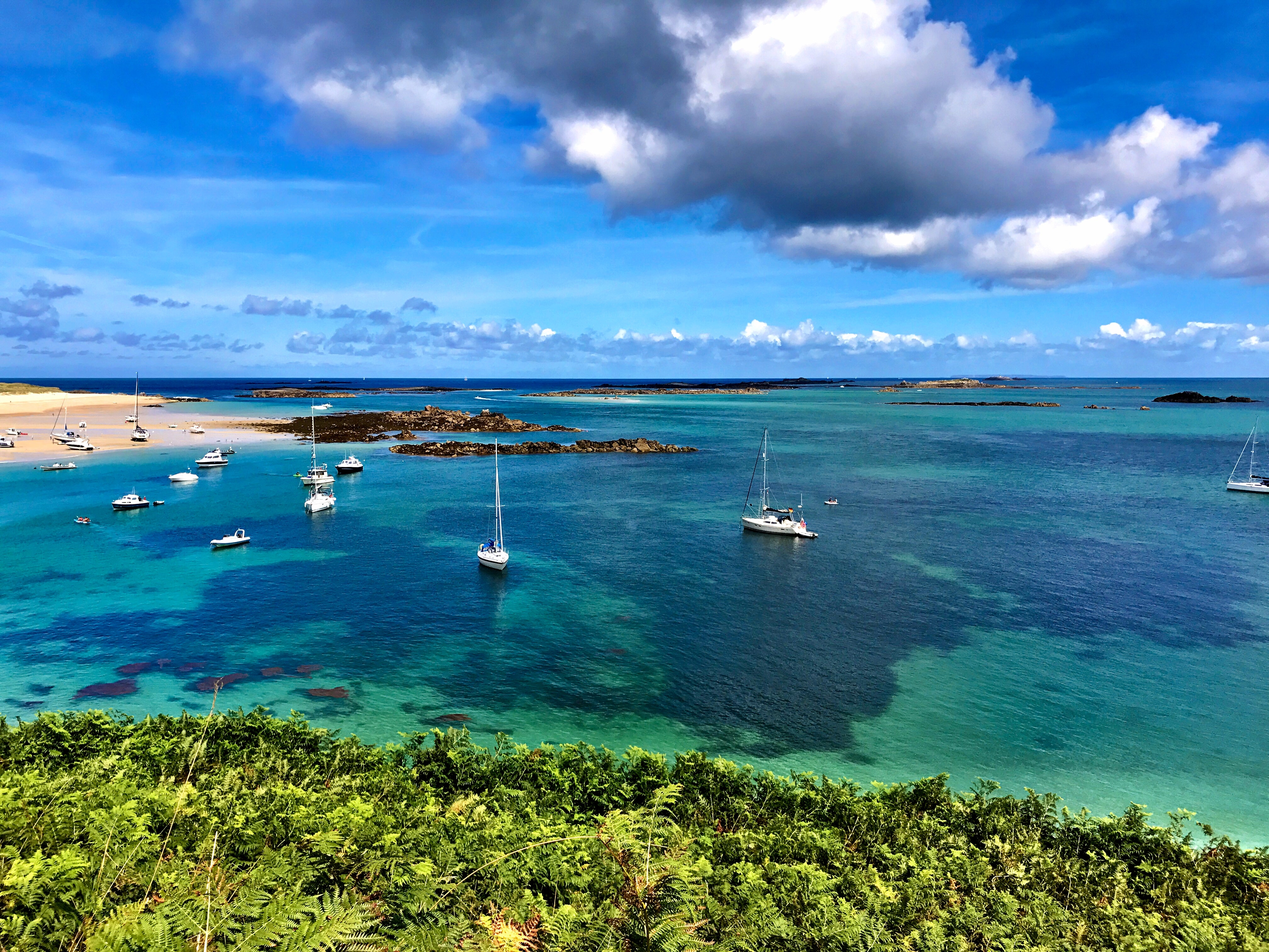
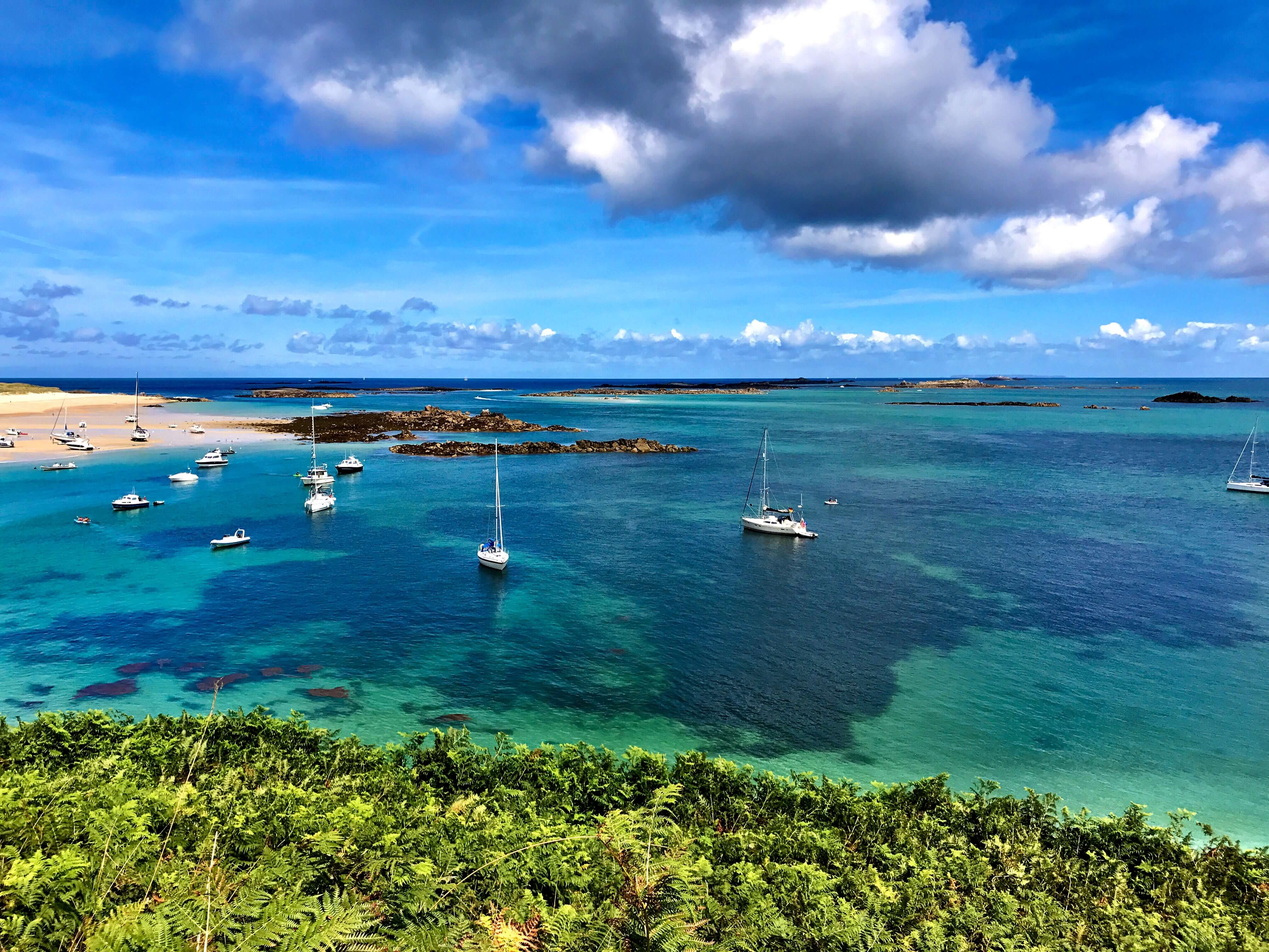
background optimizations, small tweaks

diff --git a/frontend/components/Layout.js b/frontend/components/Layout.js
@@ -22,7 +22,7 @@ const Layout = ({ children, wrap, footer, breadcrumbs }) => {
   return (
     <>
       <Header role={user?.role} />
-      <FeedbackForm />
+      {user?.role === "user" && <FeedbackForm />}
       {wrap && (
         <div className="container bg-white mt-2 mb-2 pt-2 pb-2 border rounded">
           {breadcrumbs && <Breadcrumbs />}

diff --git a/frontend/components/auth/IsAuthorized.js b/frontend/components/auth/IsAuthorized.js
@@ -5,8 +5,6 @@ const IsAuthorized = ({ children, role }) => {
 
   const appRolesList = ["user", "moderator", "admin"];
 
-  console.log("%cIsAuthorized.js line:10 role", "color: #007acc;", role);
-
   if (role && appRolesList.some((v) => role.includes(v))) {
     if (role.includes(user?.role)) {
       return <>{children}</>;

diff --git a/frontend/components/BackgroundImage.js b/frontend/components/BackgroundImage.js
@@ -9,7 +9,6 @@ const BackgroundImage = () => (
         src="/images/pexels-tony-cowen.jpg"
         layout="fill"
         objectFit="cover"
-        quality={100}
       />
     </div>
   </div>
